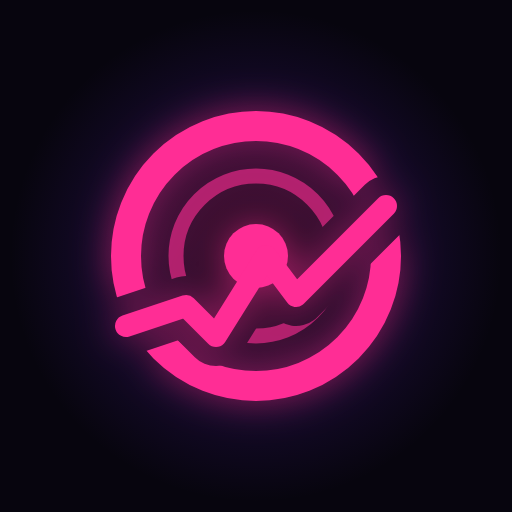
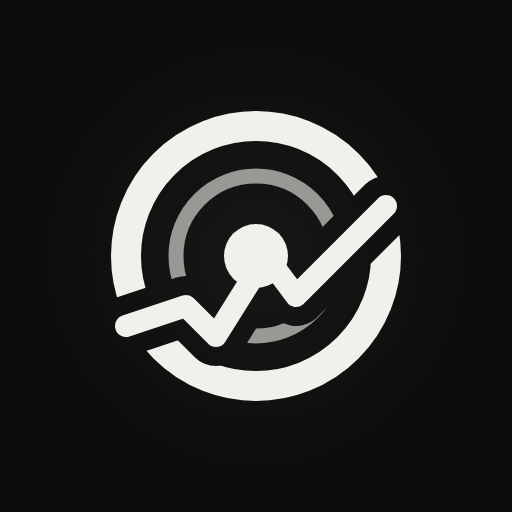
Concrete palette art; link groove.guru

diff --git a/profile/README.md b/profile/README.md
@@ -3,15 +3,15 @@
 </p>
 
 <p align="center">
-  <img src="https://img.shields.io/badge/STATUS-IN%20DEVELOPMENT-FFB020?style=for-the-badge&labelColor=07050E" alt="Status: in development">
-  <img src="https://img.shields.io/badge/HARNESS-RUST%20%C2%B7%20MIT-C8FF2E?style=for-the-badge&labelColor=07050E" alt="Harness: Rust, MIT">
-  <img src="https://img.shields.io/badge/NEEDS-PRO%20DJ%20LINK%20GEAR-FF2D95?style=for-the-badge&labelColor=07050E" alt="Needs Pro DJ Link gear">
+  <img src="https://img.shields.io/badge/STATUS-IN%20DEVELOPMENT-FF4A2B?style=for-the-badge&labelColor=0B0B0B" alt="Status: in development">
+  <img src="https://img.shields.io/badge/HARNESS-RUST%20%C2%B7%20MIT-F2F0EA?style=for-the-badge&labelColor=0B0B0B" alt="Harness: Rust, MIT">
+  <img src="https://img.shields.io/badge/NEEDS-PRO%20DJ%20LINK%20GEAR-A19E97?style=for-the-badge&labelColor=0B0B0B" alt="Needs Pro DJ Link gear">
 </p>
 
 <p align="center">
-  <a href="https://groove-guru.pages.dev"><b>site</b></a> ·
-  <a href="https://groove-guru.pages.dev/#step-1">try the drills</a> ·
-  <a href="https://groove-guru.pages.dev/llms.txt">llms.txt</a>
+  <a href="https://groove.guru"><b>site</b></a> ·
+  <a href="https://groove.guru/#step-1">try the drills</a> ·
+  <a href="https://groove.guru/llms.txt">llms.txt</a>
 </p>
 
 ---
